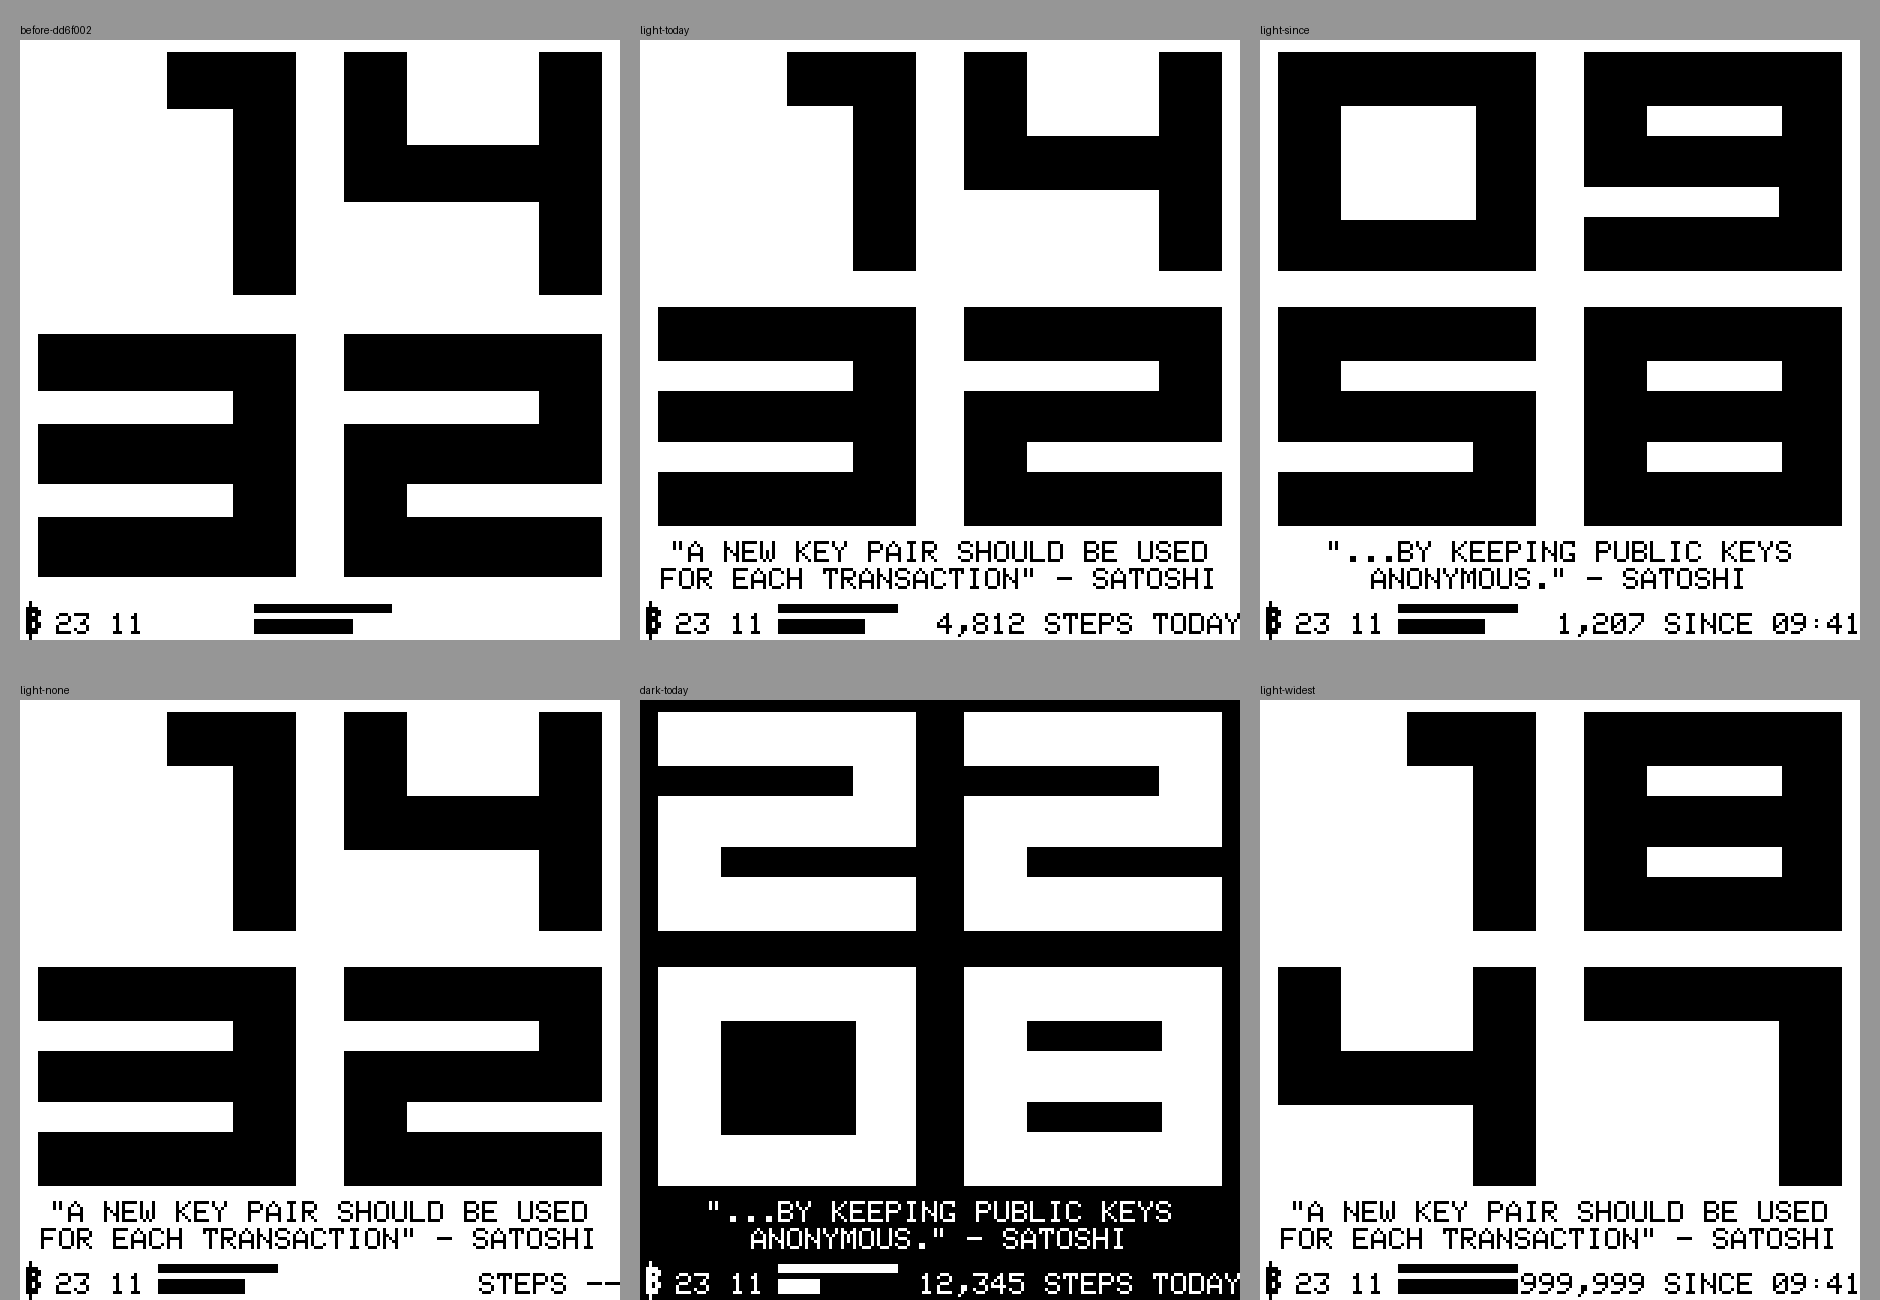
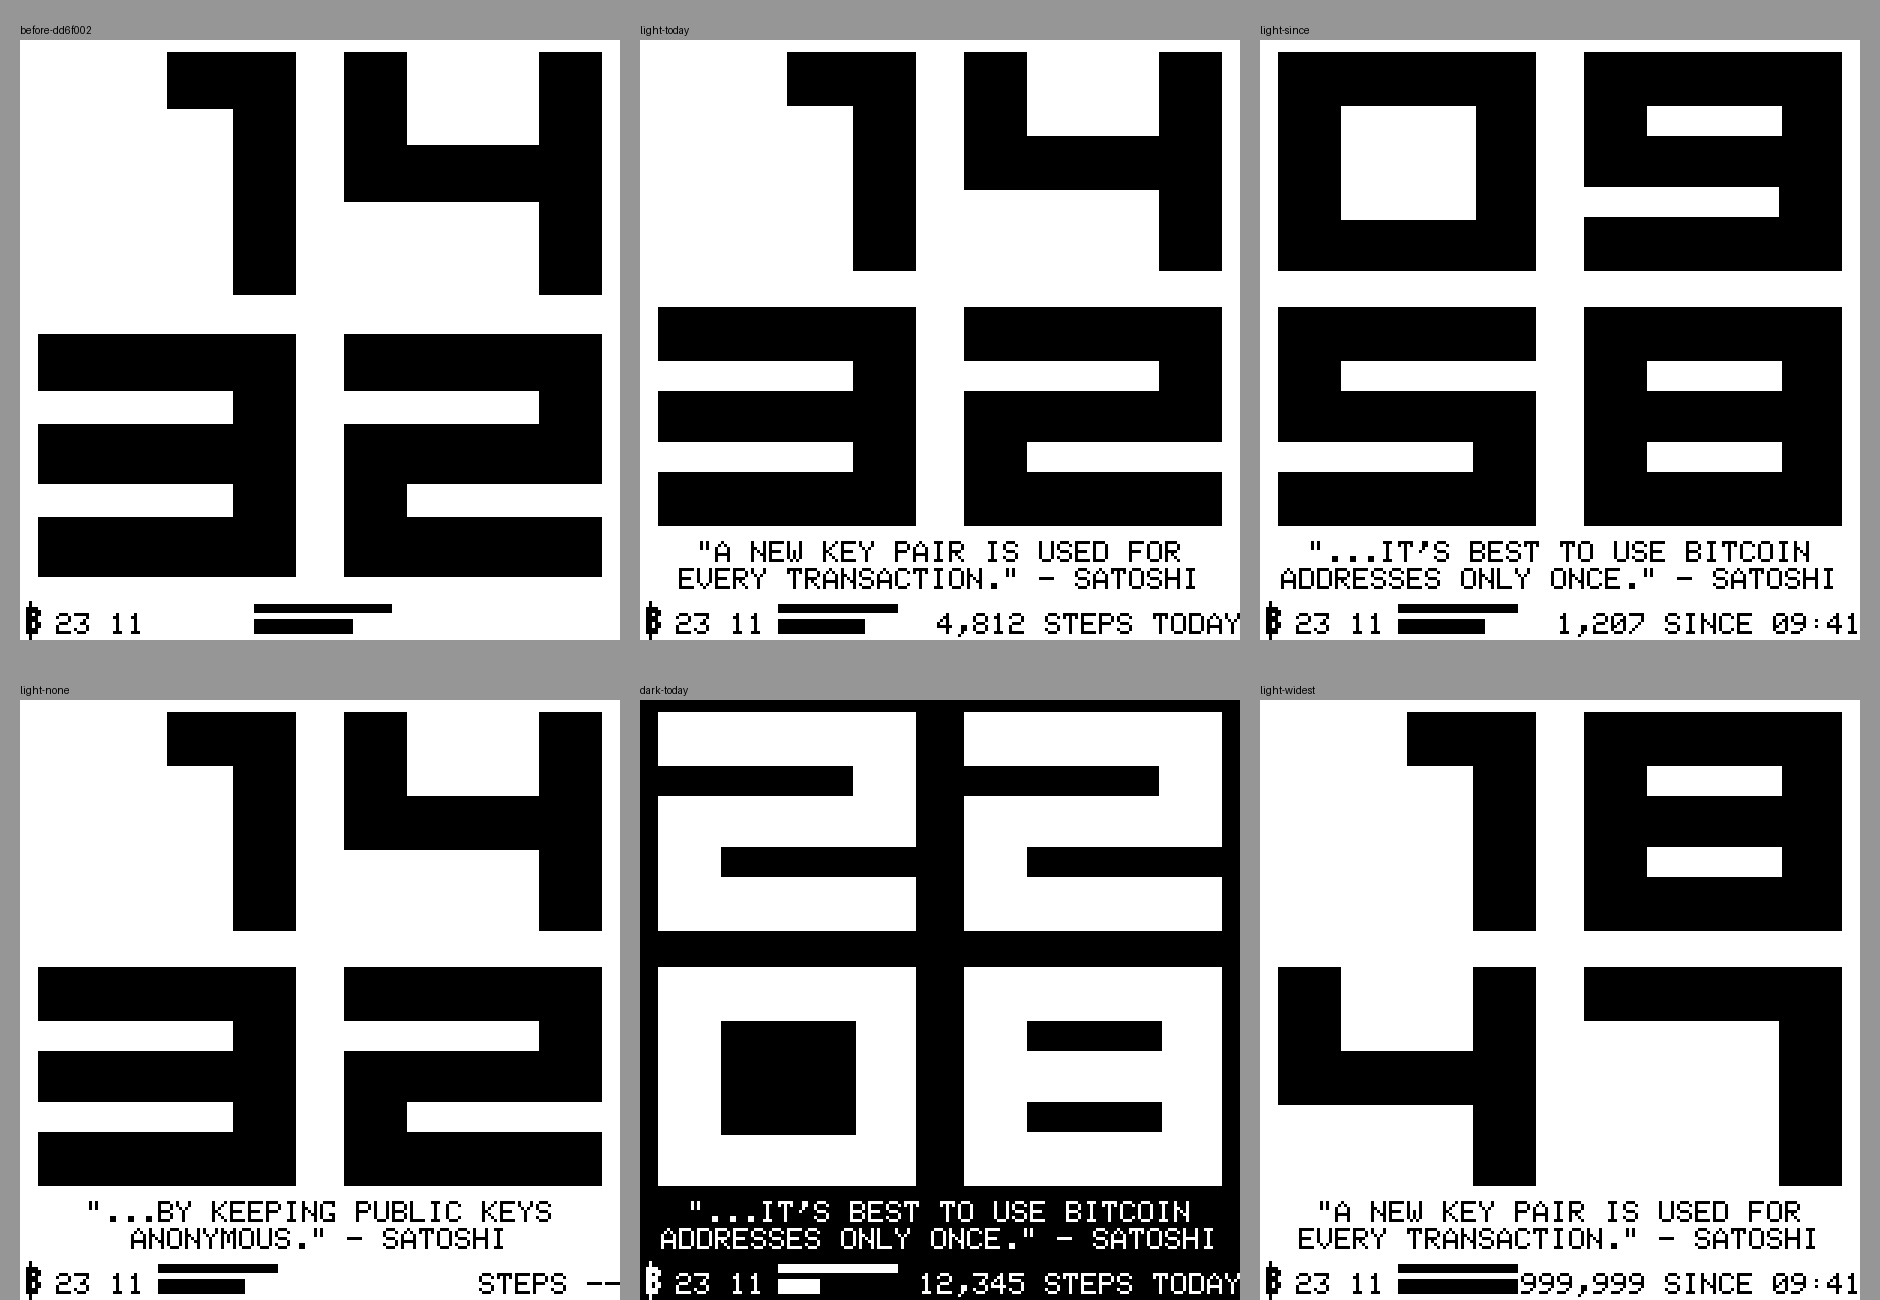
JOE footer mock: Voice's three Satoshi lines (fw/joe-footer 4b7efda)

diff --git a/joe-footer/mock.py b/joe-footer/mock.py
@@ -102,16 +102,17 @@ def joe(path, hh, mm, day, mon, batt, steps, quote, dark=False, scale=3,
 
 if __name__ == '__main__':
     # the lines, exactly as JOE_SAYS has them (BitcoinChronograph.ino)
-    Q1 = ('"A NEW KEY PAIR SHOULD BE USED', 'FOR EACH TRANSACTION" - SATOSHI')
-    Q2 = ('"...BY KEEPING PUBLIC KEYS', 'ANONYMOUS." - SATOSHI')
-    for q in Q1 + Q2:
+    Q1 = ('"A NEW KEY PAIR IS USED FOR', 'EVERY TRANSACTION." - SATOSHI')
+    Q2 = ('"...IT\'S BEST TO USE BITCOIN', 'ADDRESSES ONLY ONCE." - SATOSHI')
+    Q3 = ('"...BY KEEPING PUBLIC KEYS', 'ANONYMOUS." - SATOSHI')
+    for q in Q1 + Q2 + Q3:
         assert len(q) <= 33, q
-    # drawJoeFace() at fw/joe-footer: quarters 81, digits 86 x 73, Satoshi at
+    # drawJoeFace() at fw/joe-footer 4b7efda: quarters 81, digits 86 x 73, Satoshi at
     # y 167 and 176, the cell at x 46, 40 wide, steps to the right edge
     new = dict(QH=81, DH=73, DW=86, QY=(167, 176), cell=(46, 40))
     joe('before-dd6f002.png', 14, 32, 23, 11, 72, None, None)
     joe('light-today.png', 14, 32, 23, 11, 72, '4,812 STEPS TODAY', Q1, **new)
     joe('light-since.png', 9, 58, 23, 11, 72, '1,207 SINCE 09:41', Q2, **new)
-    joe('light-none.png', 14, 32, 23, 11, 72, 'STEPS --', Q1, **new)
+    joe('light-none.png', 14, 32, 23, 11, 72, 'STEPS --', Q3, **new)
     joe('dark-today.png', 22, 8, 23, 11, 35, '12,345 STEPS TODAY', Q2, dark=True, **new)
     joe('light-widest.png', 18, 47, 23, 11, 100, '999,999 SINCE 09:41', Q1, **new)

diff --git a/joe-footer/README.md b/joe-footer/README.md
@@ -1,6 +1,6 @@
 # JOE footer mock (PR for `fw/joe-footer`, not for merging)
 
-200x200 renders of `drawJoeFace()` at `fw/joe-footer` 69eb762. `mock.py` repeats the face's
+200x200 renders of `drawJoeFace()` at `fw/joe-footer` 4b7efda. `mock.py` repeats the face's
 rectangle math (`drawStencilDigit()`, `drawTinyB()`, the cell) and draws every line of text
 with the Adafruit GFX classic 5x7 font. `font.py` is copied from `glcdfont.c` in Adafruit GFX
 1.13.0, the pinned version. To re-render, run `python3 mock.py` (needs Pillow).
